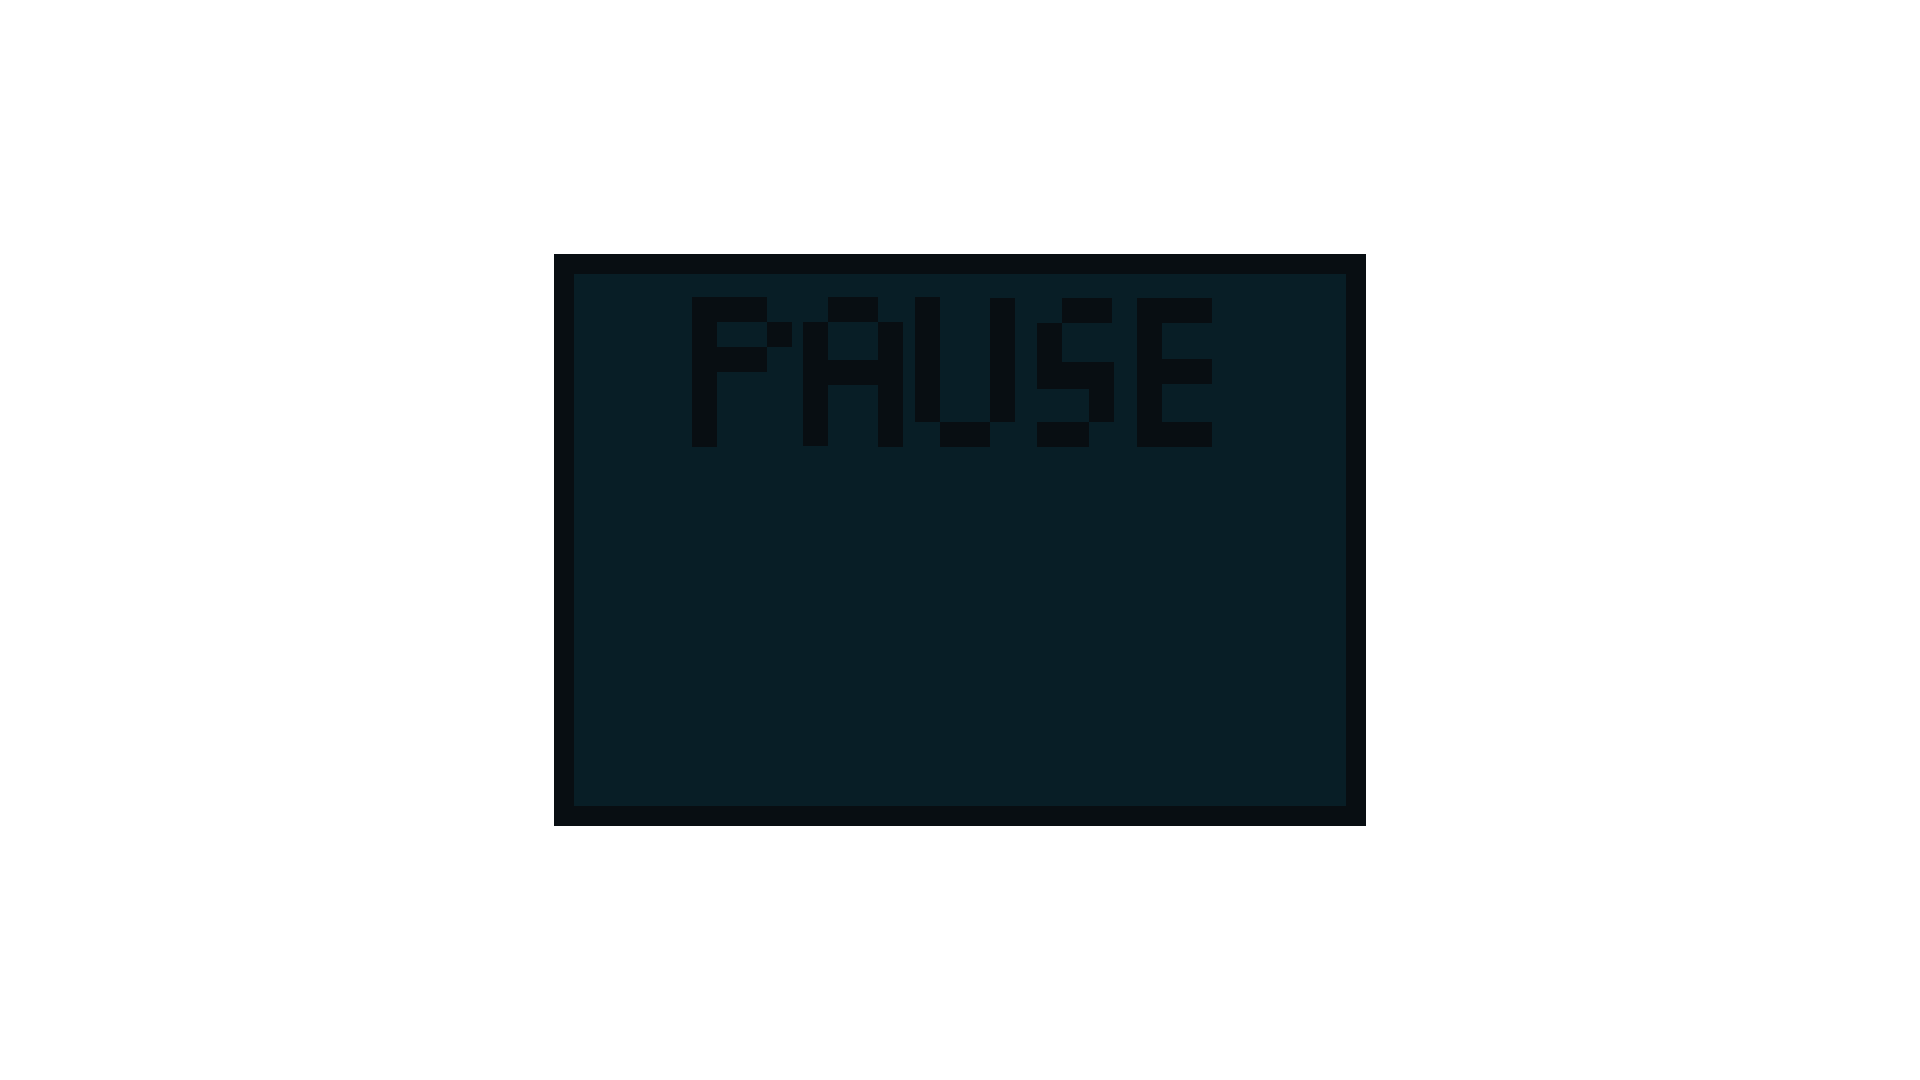
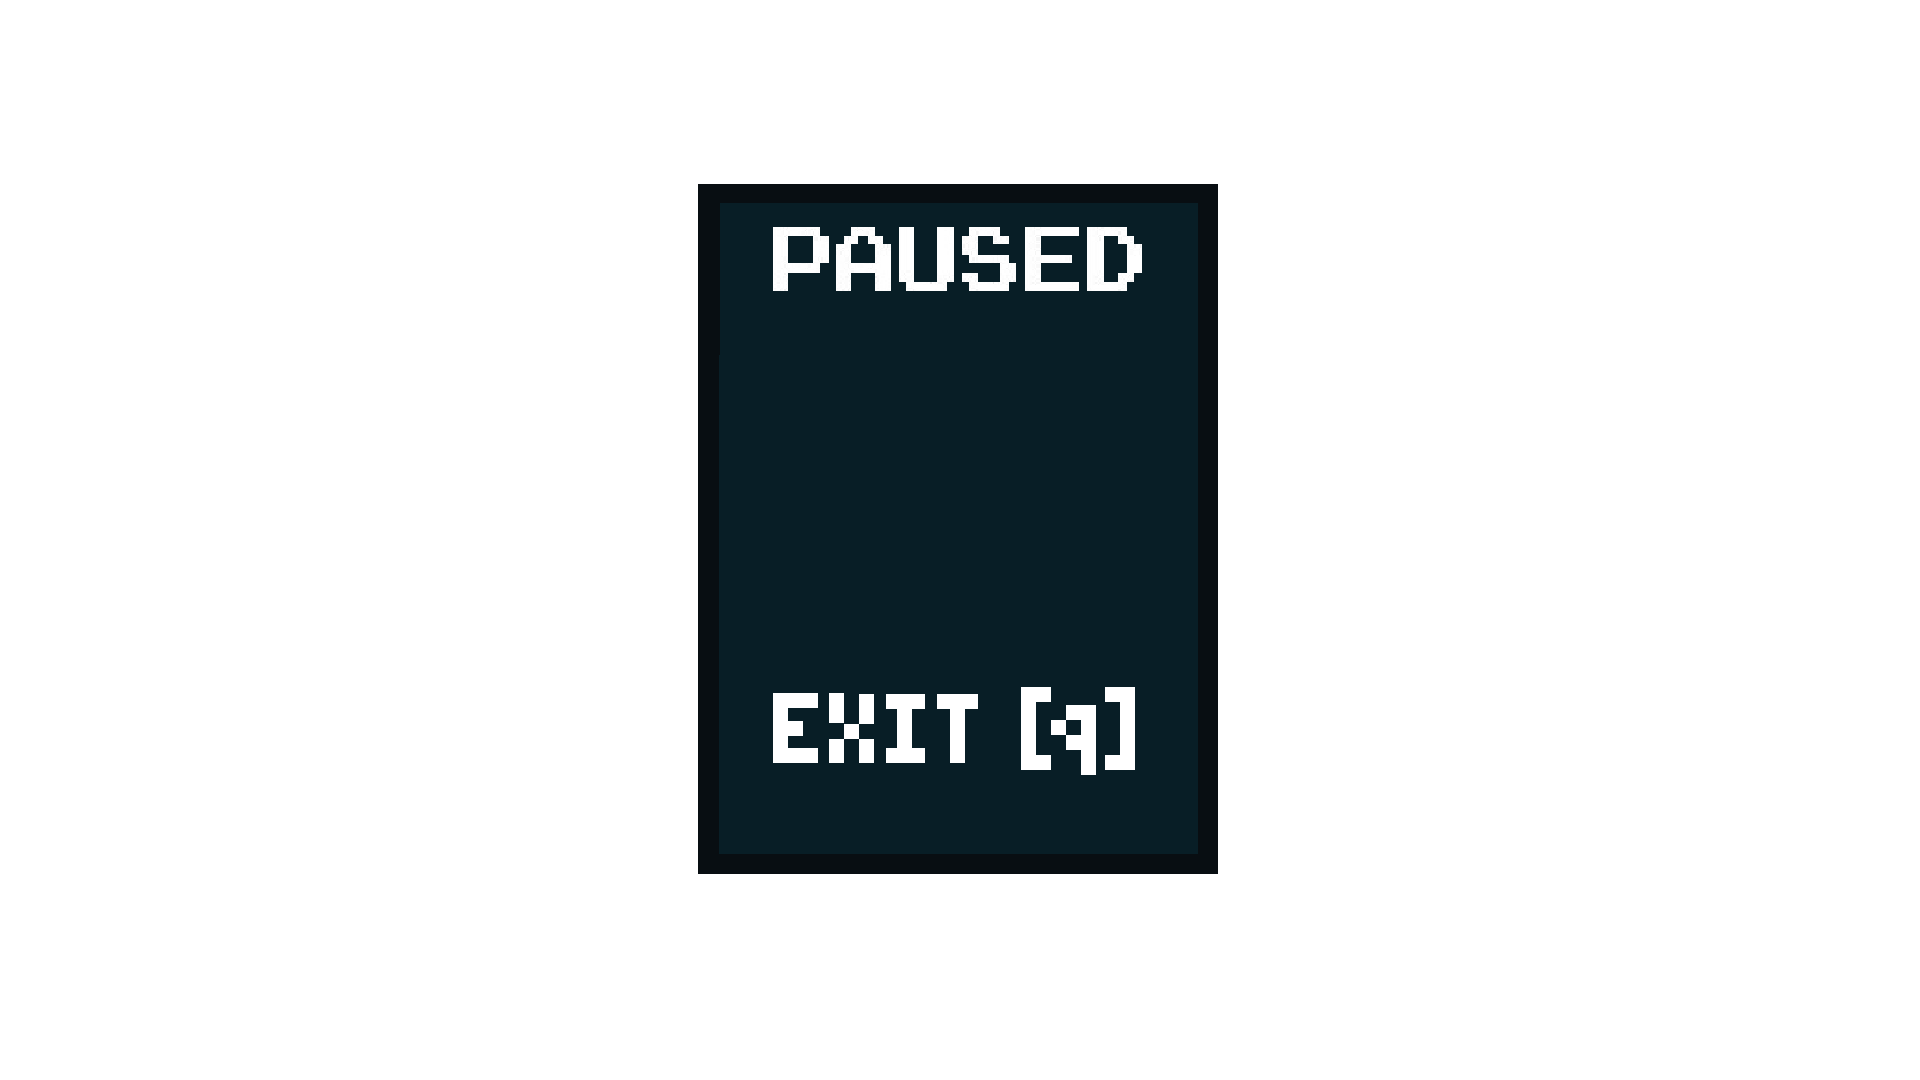
Окно паузы 99%

Changed region(s): [[0.2812, 0.1528, 0.7188, 0.825]]

diff --git a/code/main.py b/code/main.py
@@ -3,7 +3,7 @@ from player_config import all_sprites, Player, ground
 import mediapipe as mp
 import cv2
 from Location import Location
-from groups import all_sprites, floor_group, left_walls, right_walls, exit_button
+from groups import all_sprites, floor_group, left_walls, right_walls
 from load_image import load_image
 
 mp_hands = mp.solutions.hands
@@ -66,10 +66,6 @@ mp_drawing = mp.solutions.drawing_utils
 
 
 pause_background = load_image('pause/Pause.png')
-pause_button = pygame.sprite.Sprite()
-pause_button.image = pygame.image.load('data/pause/Pause_Button.png').convert_alpha()
-pause_button.rect = pause_button.image.get_rect()
-exit_button.add(pause_button)
 
 floor = Location('Locations/location_floor.png', all_sprites, floor_group)
 left_wall = Location('Locations/location_left_wall.png', all_sprites,
@@ -79,8 +75,6 @@ right_wall = Location('Locations/location_right_wall.png', all_sprites,
 ceiling = Location('Locations/location_ceiling.png', all_sprites)
 
 paused = False
-sprites = [pause_background, pause_button, floor,
-           left_wall, right_wall, ceiling]
 
 
 def draw_window():
@@ -99,15 +93,13 @@ def pause():
             if event.type == pygame.KEYDOWN:
                 if event.key == pygame.K_ESCAPE:
                     paused = False
-            if event.type == pygame.MOUSEBUTTONDOWN:
-                pos = pygame.mouse.get_pos()
-                if pause_button.rect.collidepoint(pos):
+                if event.key == pygame.K_q:
                     pygame.quit()
                     quit()
+
         screen.blit(pause_background, (0, 0))
-        exit_button.draw(screen)
         pygame.display.update()
-        clock.tick(60)
+        clock.tick(5)
 
 
 if __name__ == '__main__':

diff --git a/code/groups.py b/code/groups.py
@@ -4,4 +4,3 @@ all_sprites = pygame.sprite.Group()
 floor_group = pygame.sprite.Group()
 left_walls = pygame.sprite.Group()
 right_walls = pygame.sprite.Group()
-exit_button = pygame.sprite.Group()
